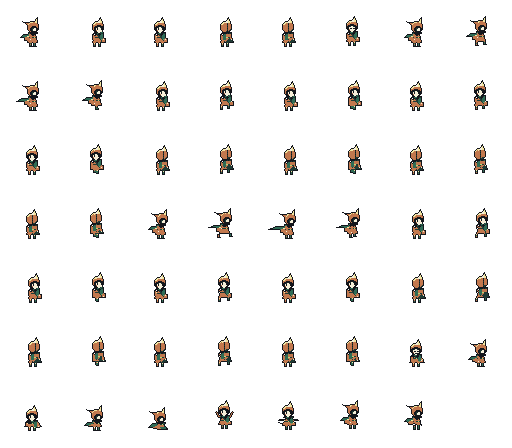
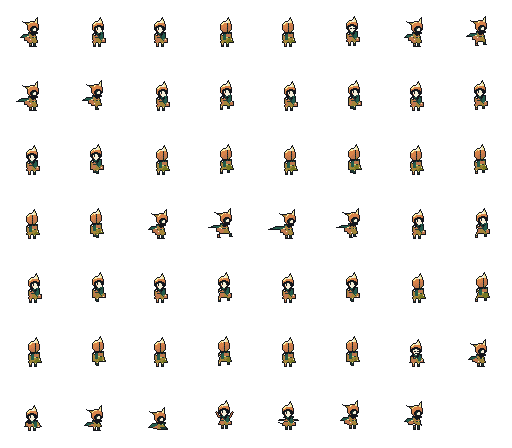
Restyle the walker and critters on the meadow ramp steps
The walker's cloak, hood, scarf and boots shade in four steps of the
meadow ramp (look A, Terracotta). The critter sprites take a lit rim
and a shaded underside from the light rule, and butterflies and the
golden critter use the same ramp colours. Ink outlines are kept.

Claude-Session: https://claude.ai/code/session_01Pmx9dV4FFTxcsuG6KudzAt

diff --git a/tools/art/gen_walker.py b/tools/art/gen_walker.py
@@ -6,6 +6,11 @@ Run: python3 tools/art/gen_walker.py   (needs Pillow + numpy; reuses the helpers
 Writes assets/art/walker/walker_atlas.png (RGBA, 8 columns x 7 rows of 64 px cells = 512 x 448) and a preview
 sheet next to this file.
 
+Colours come from the meadow ramps in render/palettes.gd (Palettes.RAMP, 4 steps per role), not the 8 anchors.
+Each value in the drawing code is a ramp code: a plain role number (0..7) is that role at its anchor step (2), and
+ENC(role, step) = 8 + role * 4 + step is the same role at another step. The cloak, hood, scarf and boots use 4
+steps each (Nathan picked look A, Terracotta, 2026-11-25). Everything else keeps its anchor colour.
+
 Five facings are drawn: E (side), SE (three-quarter front), S (front), NE (three-quarter back), N (back).
 The other three are mirrors drawn at runtime with a flip, so they are not in the atlas:
 SW = SE flipped, W = E flipped, NW = NE flipped. Light stays upper left, as in docs/art-bible.md.
@@ -20,7 +25,7 @@ Cell index (row-major, 8 per row). BASE is E, SE, S, NE, N in that order (b = 0.
   51      jump rise front    52 jump fall front   53 jump rise side   54 jump fall side
 The GDScript side (world/walker_pose.gd) uses the same numbers. Change both together.
 """
-import os, sys
+import os, re, sys
 import numpy as np
 from PIL import Image, ImageDraw
 
@@ -29,10 +34,18 @@ sys.path.insert(0, HERE)
 from gen_v2 import Cv, PAL, CELL, dith  # noqa: E402
 
 REPO = os.path.abspath(os.path.join(HERE, '..', '..'))
-CLOAK = [1, 6, 6, 5]        # deep green edge -> terracotta -> cream highlight
-HOOD = [1, 6, 6, 5]
-SCARF = [1, 2, 3]
-BOOT = [1, 2, 6]
+
+
+def enc(role, step):
+    """Ramp code for a role at a step (0 deepest .. 3 lit). Step 2 is the plain role number, the anchor."""
+    return role if step == 2 else 8 + role * 4 + step
+
+
+# Look A, Terracotta (Nathan's pick): a warm rust walker that reads clearly against the greens.
+CLOAK = [enc(6, 0), enc(6, 1), enc(6, 2), enc(6, 3)]     # olive shade -> ochre -> terracotta -> orange lit
+HOOD = [enc(6, 1), enc(6, 2), enc(6, 3), enc(5, 3)]      # one step lighter than the cloak, cream rim
+SCARF = [enc(1, 0), enc(2, 1), 2, 3]                     # green scarf, four steps
+BOOT = [enc(1, 0), 1, 6]
 SKIN = [5, 7, 7]
 BASE = ['E', 'SE', 'S', 'NE', 'N']
 FEET_Y = 46                 # ground row (WalkerBody FEET.y - 1)
@@ -253,20 +266,38 @@ def build_cells():
     return cells
 
 
+def load_ramp(zone='meadow'):
+    """The 4 steps x 8 roles of one zone, read from render/palettes.gd so the atlas matches the game: steps[step][role]."""
+    src = open(os.path.join(REPO, 'render', 'palettes.gd'), encoding='utf-8').read()
+    block = src.split('const RAMP', 1)[1].split('const STEPS', 1)[0]
+    zone_rows = block.split('&"%s": [' % zone, 1)[1].split('\n\t],', 1)[0]
+    steps = [[tuple(int(h[k:k + 2], 16) for k in (0, 2, 4)) for h in re.findall(r'"([0-9a-f]{6})"', row)]
+             for row in re.findall(r'\[([^\]]+)\]', zone_rows)]
+    assert len(steps) == 4 and all(len(row) == 8 for row in steps), 'bad RAMP block in palettes.gd'
+    return steps
+
+
+def colour_of(ramp, code):
+    if code < 8:
+        return ramp[2][code]
+    k = code - 8
+    return ramp[k & 3][k >> 2]
+
+
 def build():
     cells = build_cells()
     assert len(cells) == 55, len(cells)
     atlas = Image.new('RGBA', (COLS * CELL, ROWS * CELL), (0, 0, 0, 0))
-    pal = [tuple(int(h[k:k + 2], 16) for k in (1, 3, 5)) for h in PAL['meadow']]
+    ramp = load_ramp('meadow')
     for n, c in enumerate(cells):
         arr = np.zeros((CELL, CELL, 4), np.uint8)
         ys, xs = np.nonzero(c.i >= 0)
         for y, x in zip(ys, xs):
-            arr[y, x] = (*pal[c.i[y, x]], 255)
+            arr[y, x] = (*colour_of(ramp, int(c.i[y, x])), 255)
         atlas.paste(Image.fromarray(arr, 'RGBA'), ((n % COLS) * CELL, (n // COLS) * CELL))
     out = os.path.join(REPO, 'assets', 'art', 'walker', 'walker_atlas.png')
     atlas.save(out)
-    bg = Image.new('RGBA', atlas.size, (*pal[3], 255))
+    bg = Image.new('RGBA', atlas.size, (*ramp[2][3], 255))
     bg.alpha_composite(atlas)
     bg.resize((atlas.width * 3, atlas.height * 3), Image.NEAREST).convert('RGB').save(os.path.join(HERE, 'walker-sheet-v4.png'))
     print('wrote', out, atlas.size)

diff --git a/docs/decisions/art.md b/docs/decisions/art.md
@@ -448,3 +448,10 @@ Nathan picked mockup A (mounds) from the three styles in `plinky/pad-stage-mocku
 - **Kept, not changed:** 4x4 Bayer dither and the ink outline (the lead thread's rule list is on hold per Nathan's 2026-11-25 direction to keep the pixelated look). Rules C1 and C3 from the style guide are not in effect.
 - **Checked in the cloud:** Godot 4.7.2 under xvfb. The meadow, Ember Quarry hub and golden-hour and dusk frames render with the ramps and grade (before and after sheet: `/mnt/project-files/palette-grade/compare_B_dusk_before_after_v2.png`). The unit suite passes (11,813 checks).
 - **Not verified on the PC:** the feel of the ramps on each zone and the dusk grade on a real monitor.
+## 2026-11-25: Walker and critters on the ramp steps (T9)
+- **Nathan's pick:** look A, Terracotta (mockups in `/mnt/project-files/gower-style/t9-walker-critters/`, generator `t9_mock_walker_critters.py`).
+- **Walker:** `tools/art/gen_walker.py` now reads the meadow ramp from `render/palettes.gd`. The cloak, hood, scarf and boots each use four steps (earth for the cloak and hood, green for the scarf). The outline stays the ink anchor, and the face, satchel and details keep their anchor colours. Codes: a plain role number is the anchor, and `8 + role * 4 + step` is the same role at another step.
+- **Critters:** `world/life_critters.gd` draws its sprites with `_make_shaded`. A texel takes step 3 when its top or left neighbour is empty or ink (lit rim), step 1 when its bottom or right neighbour is (underside), and step 2 otherwise. Ink stays on the anchor. `LifeCritters.shade_palette` holds the 40 colours these codes index. Butterflies (lit upper wing and spots) and the golden sparkle (lit gold and core) use the same palette.
+- **Not changed:** the walker's shape, the animation, the sprites of wild life (`world/life_wild.gd` still uses the anchor `_make_sprite`), ripples and the dust puffs.
+- **Checked in the cloud:** Godot 4.7.2 headless suite (11,822 checks, 0 failed, nine new shading checks in `tests/test_critters.gd`). An in-engine walker capture under xvfb shows the terracotta walker on the Starting Clearing.
+- **Not verified in-engine:** the critters. Their look is checked by the Python mock and the tests only. Check the rabbit, duck, frog, chicken, butterflies and the golden critter on the PC before calling it done.

diff --git a/changelog.d/walker-critter-shading.patch.md b/changelog.d/walker-critter-shading.patch.md
@@ -1,0 +1,1 @@
+The walker's cloak and hood now shade in four steps of the meadow ramp, and the critters (rabbits, ducks, frogs, chickens, butterflies and the golden critter) get a lit rim and a shaded underside, with their ink outlines kept.
